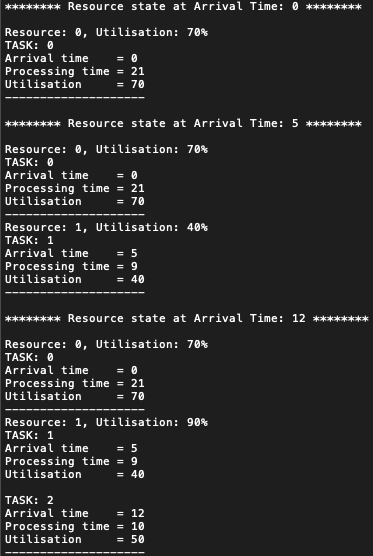
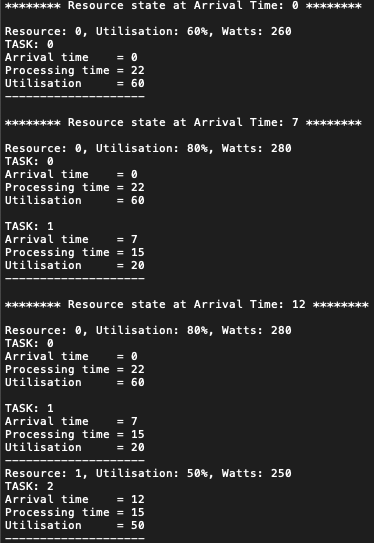
Changed output and restructured code

diff --git a/src/sample/ScheduleController.java b/src/sample/ScheduleController.java
@@ -4,17 +4,16 @@ import javafx.application.Platform;
 import javafx.collections.FXCollections;
 import javafx.collections.ObservableList;
 import javafx.fxml.FXML;
-import javafx.scene.control.*;
 import javafx.scene.control.Button;
 import javafx.scene.control.Label;
+import javafx.scene.control.TextArea;
+import javafx.scene.control.*;
+import javafx.scene.shape.Rectangle;
 import sample.Algorithms.FCFS;
 import sample.Algorithms.Resource;
 import sample.Algorithms.Task;
 import sample.Algorithms.TaskReader;
 import sample.DataGenerator.Generator;
-
-import javafx.scene.shape.Rectangle;
-import javafx.scene.control.TextArea;
 
 import java.awt.*;
 import java.io.File;
@@ -71,7 +70,7 @@ public class ScheduleController {
     public void initialize() {
 
         ArrayList<Integer> jobNumber = new ArrayList<>();
-        for (int j = 5000; j<=50000; j = j+5000) {
+        for (int j = 5000; j <= 50000; j = j + 5000) {
             jobNumber.add(j);
         }
 
@@ -139,20 +138,20 @@ public class ScheduleController {
         deleteButton.setDisable(false);
 
         long overallAmount = FCFSWattage(FCFS.wattageSchedule);
-        energyLabel.setText(String.format("     Scheduler Energy\nConsumption: %d(kW)", overallAmount/1000));
+        energyLabel.setText(String.format("     Scheduler Energy\nConsumption: %d(kW)", overallAmount / 1000));
 
 
     }
 
     public long FCFSWattage(ArrayList<String> wattageSchedule) {
         long amount = 0;
-        for(int i = 0; i < wattageSchedule.size()-1; i++) {
+        for (int i = 0; i < wattageSchedule.size() - 1; i++) {
 
             String[] parts = wattageSchedule.get(i).split("=");
             int power = Integer.parseInt(parts[0]);
             int currentTime = Integer.parseInt(parts[1]);
 
-            String[] nextParts = wattageSchedule.get(i+1).split("=");
+            String[] nextParts = wattageSchedule.get(i + 1).split("=");
             int nextTime = Integer.parseInt(nextParts[1]);
 
             amount += power * (nextTime - currentTime);
@@ -179,7 +178,7 @@ public class ScheduleController {
         if (pMinCombo.getValue() != null)
             pMaxCombo.setValue(pMinCombo.getValue() + 10);
         if (jobCombo.getValue() != null && fileChoiceCombo.getValue() != null
-        && pMinCombo.getValue() != null){
+                && pMinCombo.getValue() != null) {
             submitButton.setDisable(false);
         }
     }
@@ -201,9 +200,9 @@ public class ScheduleController {
 
     public void deleteFiles() {
         final File folder = new File("src/sample/Output");
-        String[]entries = folder.list();
-        for(String s: entries){
-            File currentFile = new File(folder.getPath(),s);
+        String[] entries = folder.list();
+        for (String s : entries) {
+            File currentFile = new File(folder.getPath(), s);
             currentFile.delete();
         }
 
@@ -231,7 +230,7 @@ public class ScheduleController {
             SimpleDateFormat simpleDateFormat = new SimpleDateFormat("dd MMMM HH:mm");
             while (true) {
                 try {
-                    Thread.sleep(1000); //1 second
+                    Thread.sleep(1000);
                 } catch (InterruptedException e) {
                     e.printStackTrace();
                 }

diff --git a/src/sample/Algorithms/FCFS.java b/src/sample/Algorithms/FCFS.java
@@ -25,7 +25,7 @@ public class FCFS {
         int total = 0;
 
         ArrayList<Resource> assignedResources = new ArrayList<>();
-        String formattedFileType = fileType.replaceAll("\\s+","");
+        String formattedFileType = fileType.replaceAll("\\s+", "");
         String fName = String.format("src/sample/Output/FCFS_%dJobs%s", data.size(), formattedFileType);
 
         File file = new File(fName);
@@ -81,12 +81,10 @@ public class FCFS {
                     double size = ((double) task.getTaskNo()) / data.size();
 
                     try {
-                        double value = round(size,2);
+                        double value = round(size, 2);
                         bar.setProgress(value);
                         indicator.setProgress(value);
-                }
-
-                    catch(Exception e) {
+                    } catch (Exception e) {
                         System.out.println(e.toString());
                     }
                 }
@@ -117,13 +115,15 @@ public class FCFS {
     }
 
     public static int populateFile(PrintWriter pw, int taskArrivalTime, ArrayList<Resource> assignedResources,
-                                   int pMin, int pMax){
+                                   int pMin, int pMax) {
 
         pw.println("\n******** Resource state at Arrival Time: " + taskArrivalTime + " ********\n");
         int total = 0;
         for (Resource r : assignedResources) {
+            int currentPower = 0;
+            currentPower += cost(pMin, pMax, r.getCurrentUtilisation());
             total += cost(pMin, pMax, r.getCurrentUtilisation());
-            pw.println("Resource: " + r.getResourceID() + ", Utilisation: " + r.getCurrentUtilisation() + "%");
+            pw.println("Resource: " + r.getResourceID() + ", Utilisation: " + r.getCurrentUtilisation() + "%" + ", Watts: " + currentPower);
             String formattedString = r.getTasksOnResource().toString()
                     .replace(",", "")
                     .replace("[", "")

diff --git a/src/sample/Algorithms/Resource.java b/src/sample/Algorithms/Resource.java
@@ -45,8 +45,7 @@ public class Resource {
         for (Task existingTasks : tasksOnResource) {
             if (newTaskFinish < existingTasks.getArrivalTime() + existingTasks.getProcessingTime()) {
                 alone = 0;
-            }
-            else {
+            } else {
                 alone = existingTasks.getArrivalTime() + existingTasks.getProcessingTime() - newTaskFinish;
             }
         }
@@ -93,9 +92,9 @@ public class Resource {
 
     // Refresh resource every second, if the task runs its time it will be removed from the
     // active tasks on this resource.
-    public void updateResource(int currentTime){
-        for (int i = 0; i < tasksOnResource.size(); i++){
-            if ((tasksOnResource.get(i).getArrivalTime() + tasksOnResource.get(i).getProcessingTime()) <= currentTime){
+    public void updateResource(int currentTime) {
+        for (int i = 0; i < tasksOnResource.size(); i++) {
+            if ((tasksOnResource.get(i).getArrivalTime() + tasksOnResource.get(i).getProcessingTime()) <= currentTime) {
                 tasksOnResource.remove(i);
                 updateUtilisation();
             }
@@ -112,7 +111,9 @@ public class Resource {
 
     }
 
-    public ArrayList<Task> getTasksOnResource() {return tasksOnResource;}
+    public ArrayList<Task> getTasksOnResource() {
+        return tasksOnResource;
+    }
 
     public void printTasksOnResource() {
         for (Task t : tasksOnResource) {

diff --git a/src/sample/Main.java b/src/sample/Main.java
@@ -21,7 +21,6 @@ public class Main extends Application {
         primaryStage.show();
     }
 
-
     public static void main(String[] args) {
         launch(args);
     }
